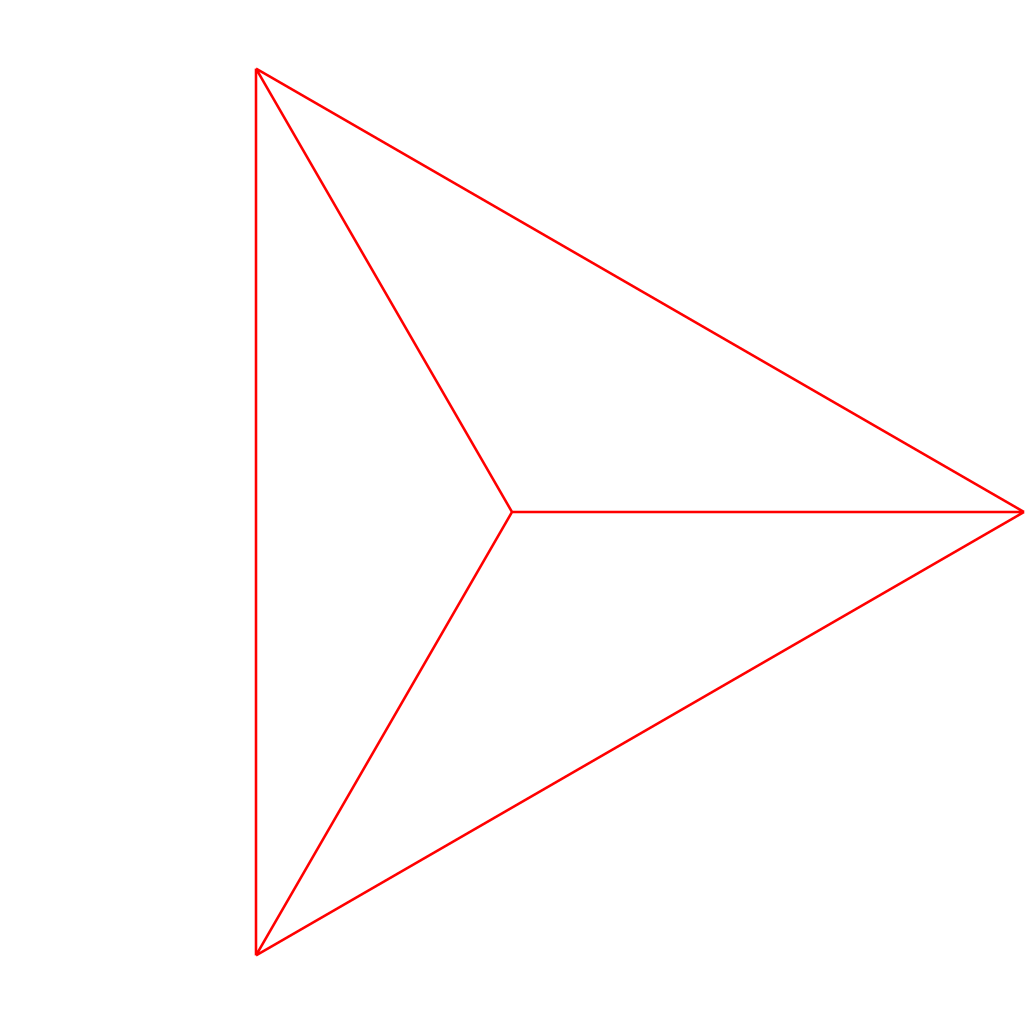
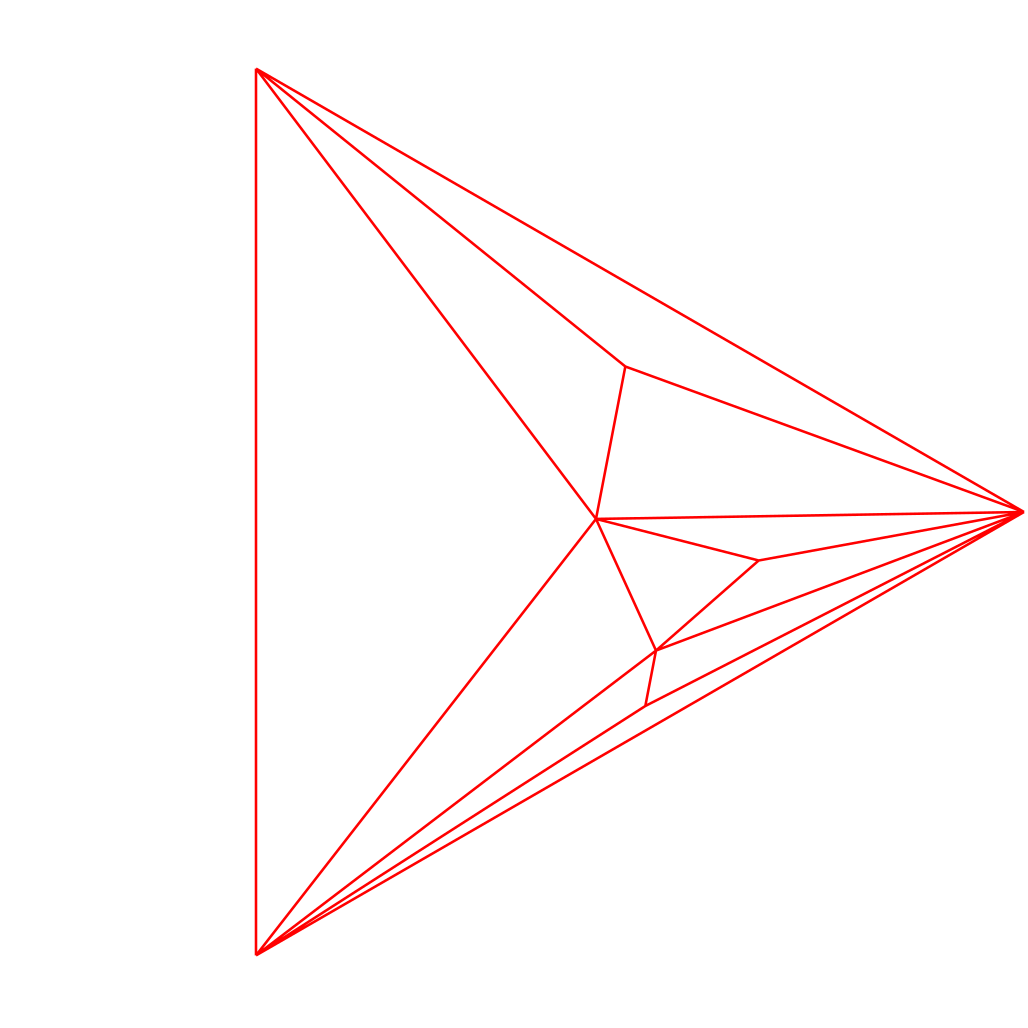
idk what is wrong with canon but it clearly isnt working

diff --git a/flipPathTester.py b/flipPathTester.py
@@ -13,7 +13,7 @@ def testTriToCanon():
 
     # Genereate image for before any flips
     png = PngMaker(tutteGraph)
-    png.generateEmbeddingPNG("../flipTests/canon/canonTestBefore")
+    png.generateEmbeddingPNG("./flipTests/canon/canonTestBefore.png")
 
     # Generate the flip path
     path = triToCanonical(tri)
@@ -24,7 +24,7 @@ def testTriToCanon():
         flip(edge)
         tutteGraph = tutteEmbeddingE2(tri)
         png = PngMaker(tutteGraph)
-        filename = "../flipTests/canon/" + i + ".png"
+        filename = "./flipTests/canon/" + str(i) + ".png"
         png.generateEmbeddingPNG(filename)
         i += 1
 
@@ -41,10 +41,10 @@ def testTriToTri():
 
     # Genereate image for before any flips
     png = PngMaker(tutteGraphA)
-    png.generateEmbeddingPNG("../flipTests/tri/triA")
+    png.generateEmbeddingPNG("./flipTests/tri/triA")
 
     png = PngMaker(tutteGraphB)
-    png.generateEmbeddingPNG("../flipTests/tri/triB")
+    png.generateEmbeddingPNG("./flipTests/tri/triB")
 
     # Generate the flip path
     path = calculateFlipPath(triA, triB)
@@ -55,13 +55,13 @@ def testTriToTri():
         flip(edge)
         tutteGraph = tutteEmbeddingE2(tri)
         png = PngMaker(tutteGraph)
-        filename = "../flipTests/canon/" + i + ".png"
+        filename = "./flipTests/tri/" + str(i) + ".png"
         png.generateEmbeddingPNG(filename)
         i += 1
 
 def testFlip():
     # Sample 5 points to make the simplest flipable triangulation
-    tri = randomConvexHullE3(5)
+    tri = randomConvexHullE3(8)
     tri.outerFace = tri.outerFace = tri.faces[0]
     tutteGraph = tutteEmbeddingE2(tri)
 
@@ -85,7 +85,7 @@ def testFlip():
 
 
 def main():
-    testFlip()
+    testTriToCanon()
 
 if __name__ == "__main__":
     main()

diff --git a/koebe/algorithms/flipPather.py b/koebe/algorithms/flipPather.py
@@ -62,16 +62,15 @@ def triToCanonical(tri: DCEL):
                 next = False
                 # Check that v is not adjacent to a,
                 # and update v's neighbor status
-                for face in uw.incidentFaces():
-                    for v in face.verticies():
-                        if v != a and v != uw.endPoints()[0] and v != uw.endPoints()[1]:
+                for face in edge.incidentFaces():
+                    for v in face.vertices():
+                        if v != a and v != edge.endPoints()[0] and v != edge.endPoints()[1]:
                             if v.neighborsA:
                                 next = True
                                 break
                             else:
                                 v.neighborsA = True
                                 break
-
                 if next: continue
                 uw = edge
                 break
@@ -79,9 +78,9 @@ def triToCanonical(tri: DCEL):
                 next = False
                 # Check that v is not adjacent to b,
                 # and update v's neighbor status
-                for face in uw.incidentFaces():
-                    for v in face.verticies():
-                        if v != b and v != uw.endPoints()[0] and v != uw.endPoints()[1]:
+                for face in edge.incidentFaces():
+                    for v in face.vertices():
+                        if v != b and v != edge.endPoints()[0] and v != edge.endPoints()[1]:
                             if v.neighborsB:
                                 next = True
                                 break
@@ -102,7 +101,7 @@ def triToCanonical(tri: DCEL):
         path.append(uw)
 
         # Flip the edge uw
-        flip(dTri, uw)
+        flip(uw)
 
     return path
 
